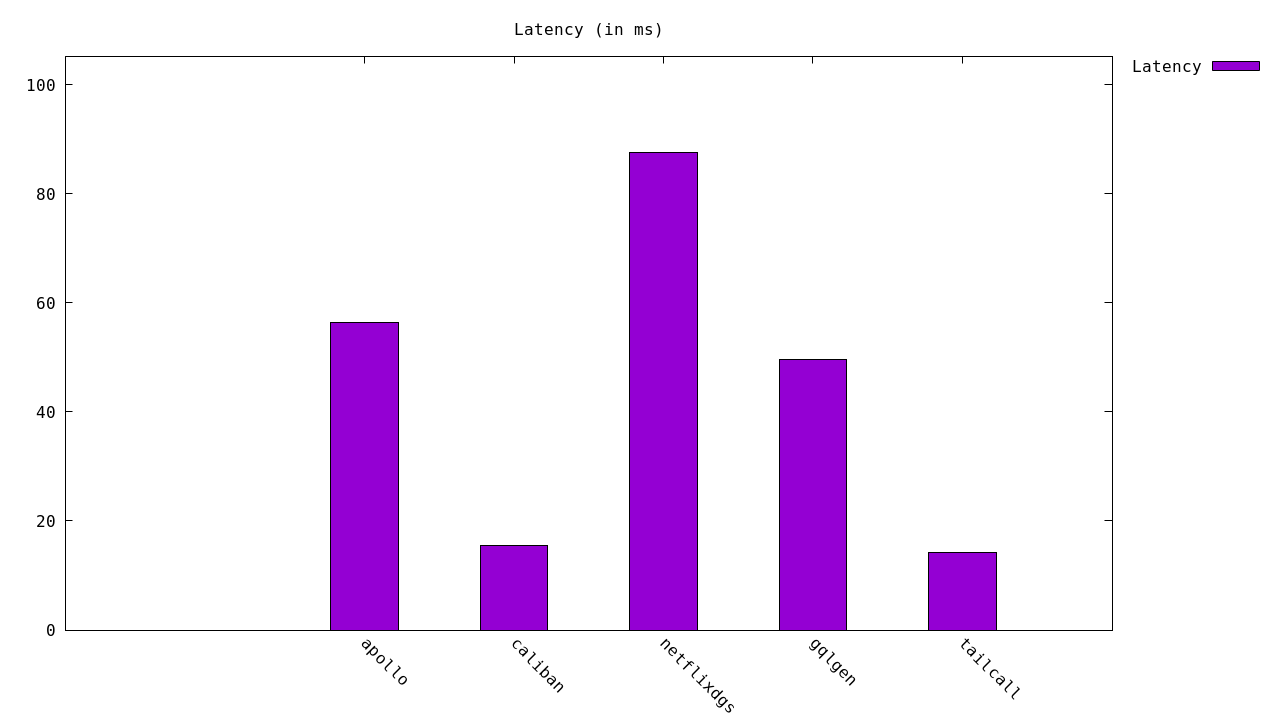
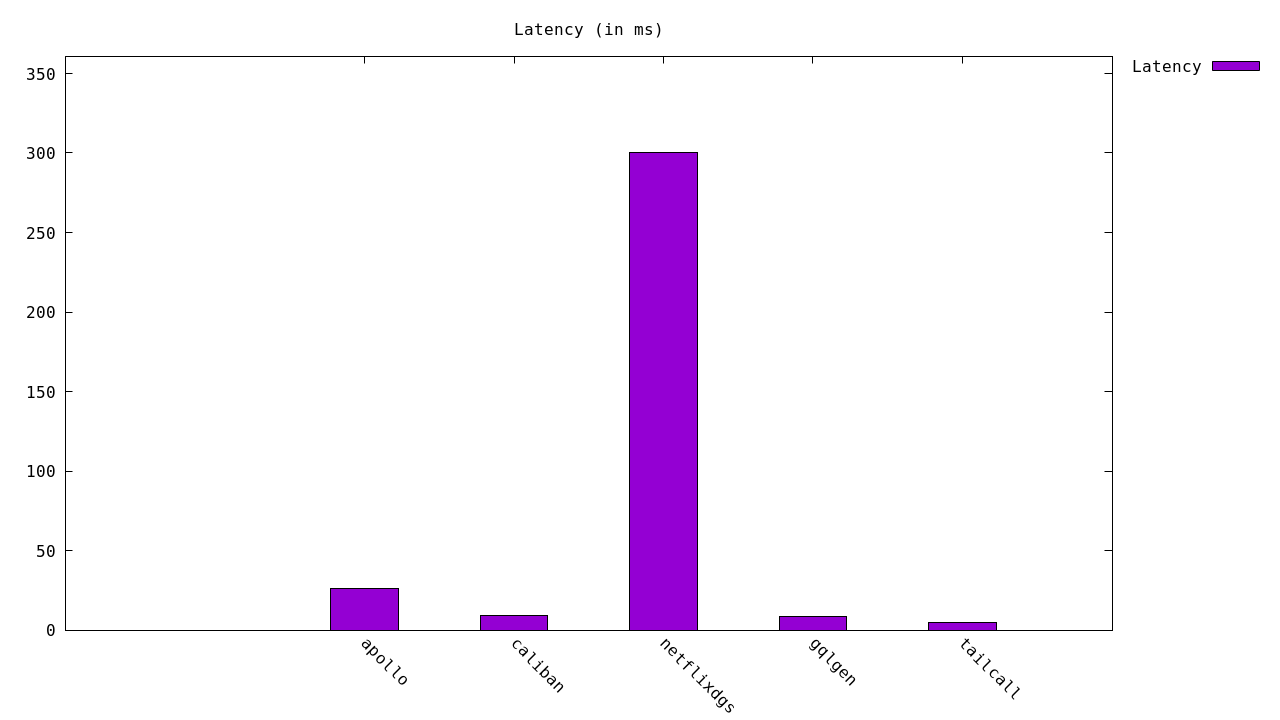
Update performance results in README.md

diff --git a/README.md b/README.md
@@ -46,11 +46,11 @@ Get started with the benchmarks:
 
 | Server | Requests/sec | Latency (ms) |
 |--------:|--------------:|--------------:|
-| [Tailcall] | `7,033.32` | `14.20` |
-| [Caliban] | `6,440.48` | `15.57` |
-| [Gqlgen] | `2,090.34` | `49.65` |
-| [Apollo GraphQL] | `1,769.72` | `56.37` |
-| [Netflix DGS] | `1,470.80` | `87.61` |
+| [Tailcall] | `20,470.40` | `4.87` |
+| [Gqlgen] | `15,227.80` | `8.43` |
+| [Caliban] | `10,609.00` | `9.44` |
+| [Apollo GraphQL] | `3,873.69` | `25.97` |
+| [Netflix DGS] | `327.05` | `300.57` |
 
 <!-- PERFORMANCE_RESULTS_END -->
 
